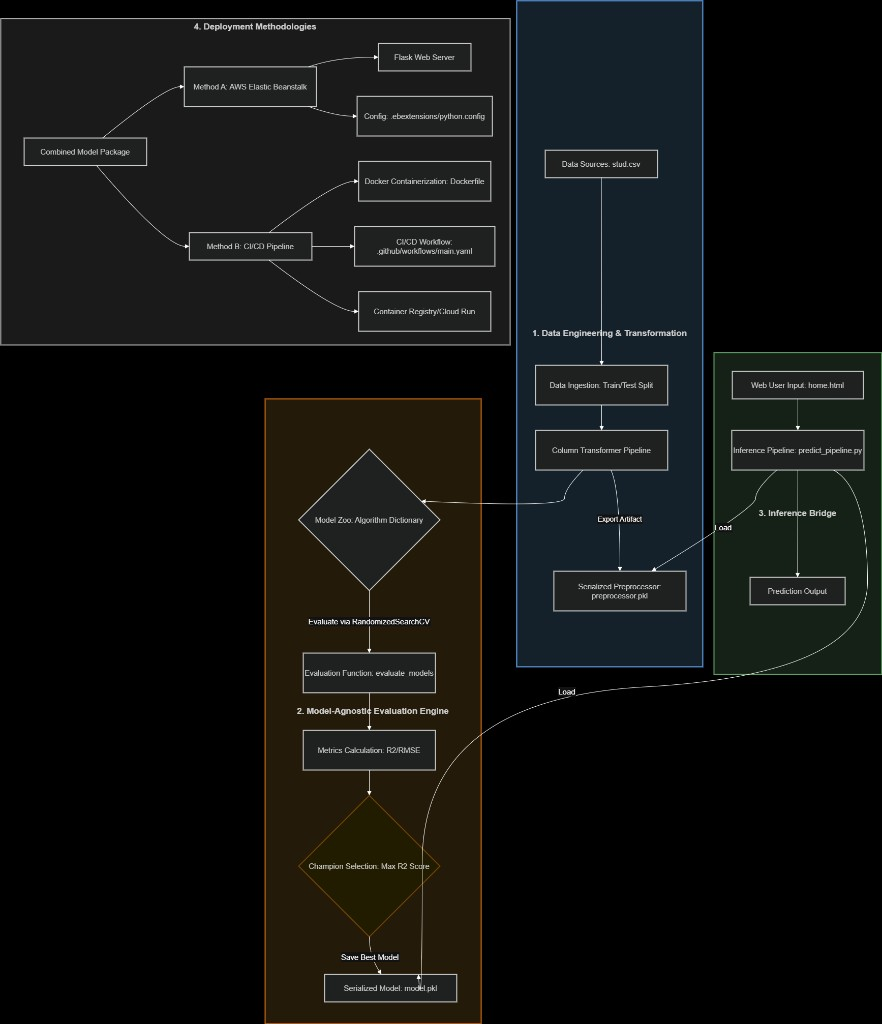
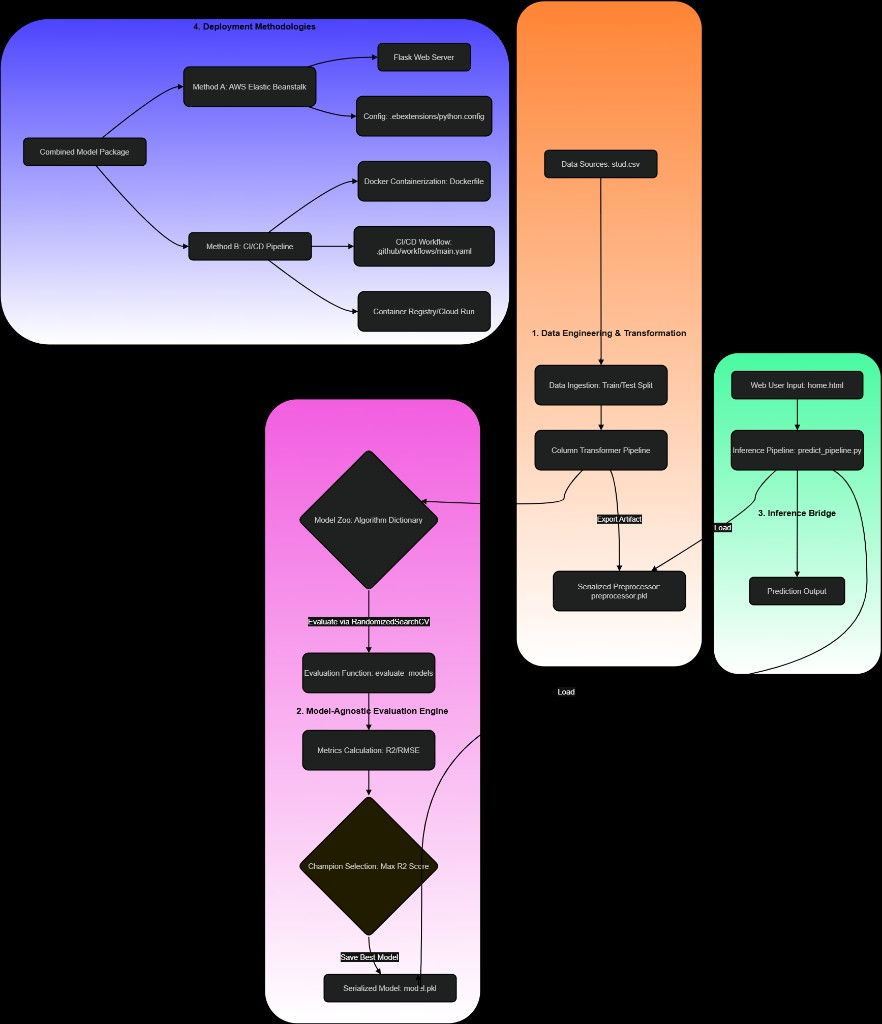
Updates

diff --git a/assets/index-kpCvCUME.js b/assets/index-kpCvCUME.js
@@ -93,7 +93,7 @@ about:\r
   profileImageAlt: "Srivalli Lanka"\r
   fallbackInitials: "SL"\r
   paragraphs:\r
-    - "I'm a Master's student in Information Management at the University of Illinois Urbana-Champaign, with a strong interest in using data to understand complex systems and support better decisions. My work often starts with messy, real-world data, such as operational records, research datasets, user interactions, or system outputs — and turns them into structured analysis, models, dashboards, or data workflows that explain what is happening and why it matters."\r
+    - "I'm a Master's student in Information Management at the University of Illinois Urbana-Champaign, with a strong interest in using data to understand complex systems and support better decisions. My work often starts with messy, real-world data, such as operational records, research datasets, user interactions, or system outputs and turns them into structured analysis, models, dashboards, or data workflows that explain what is happening and why it matters."\r
     - "During my graduate work, I have built a profile across data science, analytics, AI, and data engineering through applied research and hands-on projects. At RailTEC, I work on freight rail safety analytics, analyzing infrastructure, traffic, and incident data to support derailment-rate modeling and data quality assessment. At UIUC's Center for Health Informatics, I worked with climate and health data to prepare analysis-ready datasets for studying patterns between extreme weather and health outcomes."\r
     - "Before graduate school, I worked at Deloitte as a network engineer, where I gained experience with enterprise systems, performance monitoring, incident analysis, and operational data. That experience shaped how I approach data work today: not just as analysis or modeling, but as part of a larger system where reliability, context, and clear communication matter. Across my work, I enjoy building practical solutions using Python, SQL, AWS, Tableau, machine learning methods, and AI tools to connect data with real-world problems."\r
 \r
@@ -448,10 +448,8 @@ projects:\r
       date: "2024"\r
       github: "https://github.com/SrivalliLanka/mlproject"\r
       live: ""\r
-      thumbnail: "projects/MLProject_arch.png"\r
-      heroMedia:\r
-        type: "image"\r
-        url: "projects/MLProject_arch.png"\r
+      thumbnail: "projects/MLProject_thumb.png"\r
+      heroMedia: {}\r
       media: []\r
 \r
 # Contact Section\r

diff --git a/index.html b/index.html
@@ -5,7 +5,7 @@
     <link rel="icon" type="image/svg+xml" href="/vite.svg" />
     <meta name="viewport" content="width=device-width, initial-scale=1.0" />
     <title>Portfolio - Srivalli Lanka</title>
-    <script type="module" crossorigin src="/Srivalli_Portfolio/assets/index-D5PAc_4J.js"></script>
+    <script type="module" crossorigin src="/Srivalli_Portfolio/assets/index-kpCvCUME.js"></script>
     <link rel="stylesheet" crossorigin href="/Srivalli_Portfolio/assets/index-LYrNdEwC.css">
   </head>
   <body>
